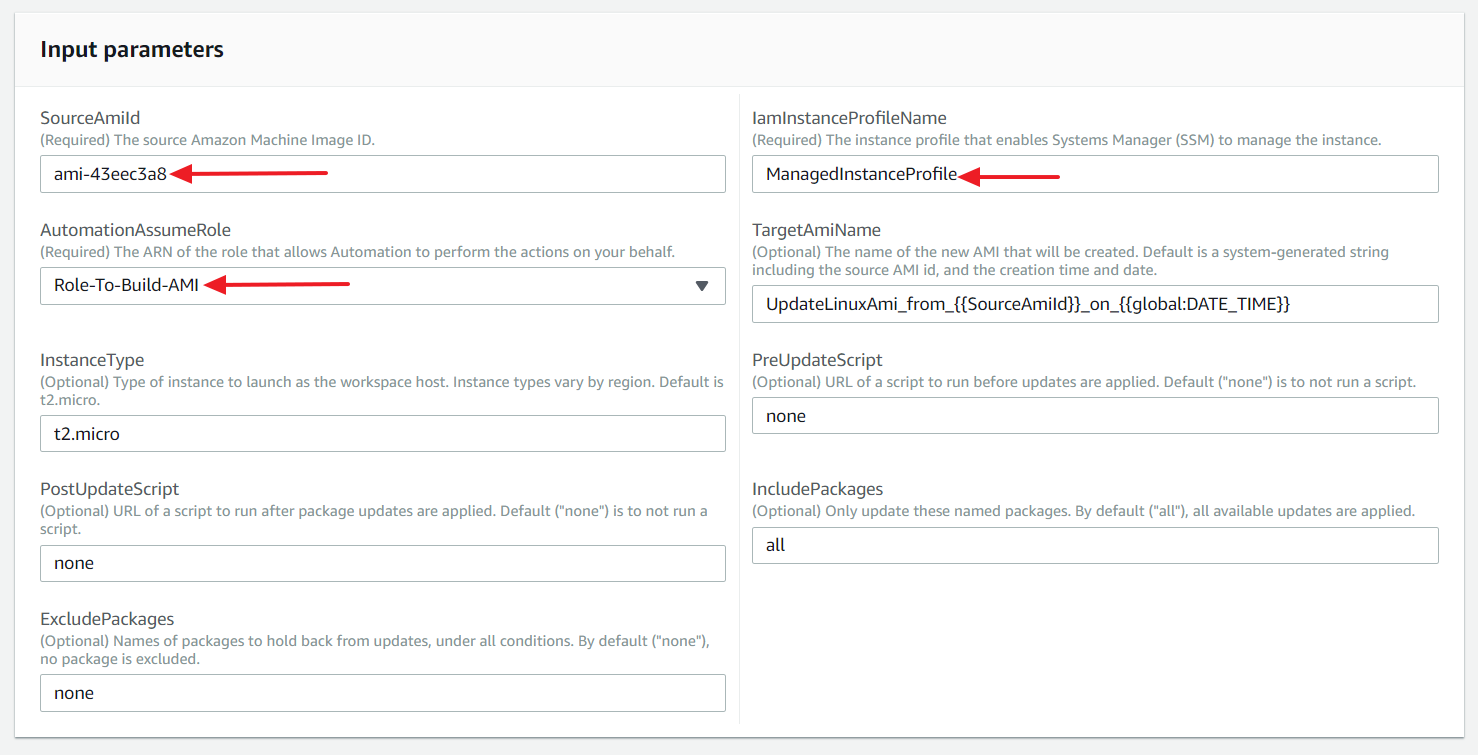
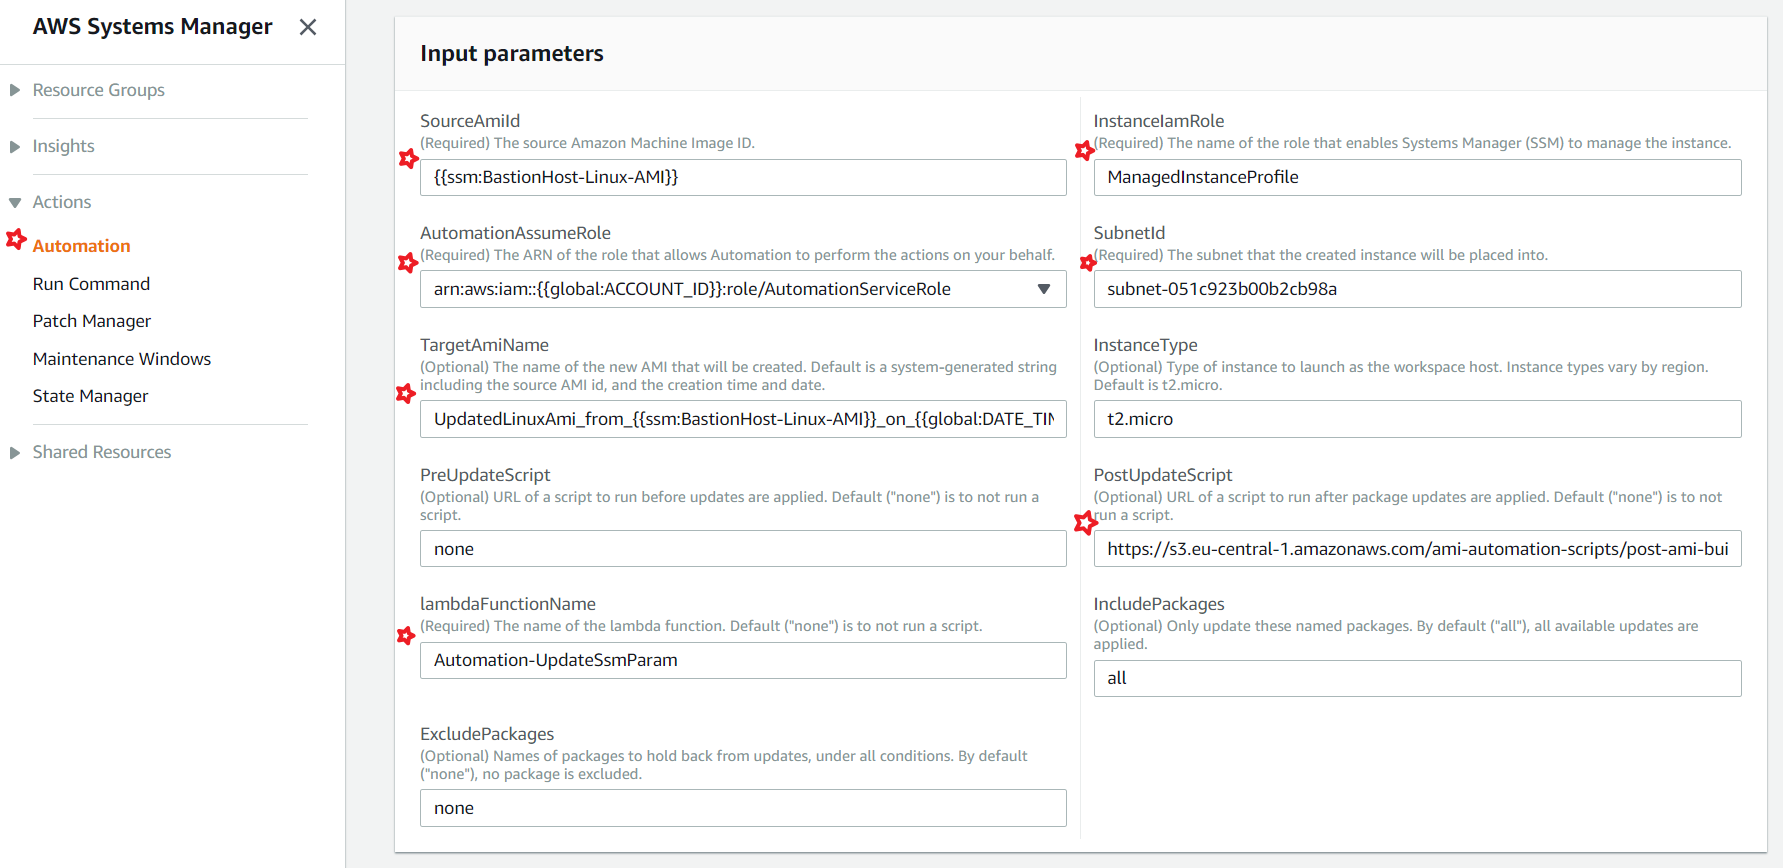
Added images and updated text in README

diff --git a/How-To/setup-ami-lifecycle-management-using-ssm/build-scripts/Automation-UpdateSsmParam.py b/How-To/setup-ami-lifecycle-management-using-ssm/build-scripts/Automation-UpdateSsmParam.py
@@ -1,0 +1,54 @@
+from __future__ import print_function
+
+import json
+import boto3
+
+print('Loading function')
+
+
+#Updates an SSM parameter
+#Expects parameterName, parameterValue
+def lambda_handler(event, context):
+    print("Received event: " + json.dumps(event, indent=2))
+
+    # get SSM client
+    client = boto3.client('ssm')
+
+    #confirm  parameter exists before updating it
+    response = client.describe_parameters(
+       Filters=[
+          {
+           'Key': 'Name',
+           'Values': [ event['parameterName'] ]
+          },
+        ]
+    )
+
+    if not response['Parameters']:
+        print('No such parameter')
+        return 'SSM parameter not found.'
+
+    #if parameter has a Descrition field, update it PLUS the Value
+    if 'Description' in response['Parameters'][0]:
+        description = response['Parameters'][0]['Description']
+        
+        response = client.put_parameter(
+          Name=event['parameterName'],
+          Value=event['parameterValue'],
+          Description=description,
+          Type='String',
+          Overwrite=True
+        )
+    
+    #otherwise just update Value
+    else:
+        response = client.put_parameter(
+          Name=event['parameterName'],
+          Value=event['parameterValue'],
+          Type='String',
+          Overwrite=True
+        )
+        
+    reponseString = 'Updated parameter %s with value %s.' % (event['parameterName'], event['parameterValue'])
+        
+    return reponseString

diff --git a/How-To/setup-ami-lifecycle-management-using-ssm/README.MD b/How-To/setup-ami-lifecycle-management-using-ssm/README.MD
@@ -21,9 +21,7 @@ We will need two roles to automate the AMI LifeCycle Management.
         ]
     }
     ```
-
-## Trust Relationships
-Make the below trust relationship to both the roles
+1. **Trust Relationships**: Make the below trust relationship to both the roles
 
 ```
 {
@@ -42,79 +40,39 @@ Make the below trust relationship to both the roles
   ]
 }
 ```
-If this is all too much for you, you can use this [cloudformation template to create the same](https://console.aws.amazon.com/cloudformation/home?region=us-east-1#/stacks/new?stackName=Systems-Manager-AMI-Automation-Setup&templateURL=https://s3.amazonaws.com/aws-ssm-downloads-us-east-1/templates/automationsetup.yaml)
+If this role creation and attaching trust policies, that part alone can be done using this [cloudformation template](https://console.aws.amazon.com/cloudformation/home?region=us-east-1#/stacks/new?stackName=Systems-Manager-AMI-Automation-Setup&templateURL=https://s3.amazonaws.com/aws-ssm-downloads-us-east-1/templates/automationsetup.yaml).
 
+
+### Create Parameter for Golden AMI
+Use the AWS CLI or GUI to create a parameter store entry, here is the CLI command. `BastionHost-Linux-AMI` is the parameter name that we will use in our _Automation_ Document and lambda will use the same to update the AMI Upon completion of the AMI.
+```sh
+aws ssm put-parameter --name BastionHost-Linux-AMI --value "ami-9a91b371" --type String
+```
 
 ### Create [Lambda](https://docs.aws.amazon.com/systems-manager/latest/userguide/automation-simpatch.html#automation-pet1) to update SSM Parameter Store
+This function will helps us to automatically update the parameter store with the latest AMI when the _Automation Document_ successfully create a new image.
+
+
 
 **Customizations:**
 _Modify as required for your environment_
-1. SSM Parameter Name for `Golden AMI` - Default is `BastionHost-Linux-AMI` 
-1. Lambda Function Name: Default is `Automation-UpdateSsmParam`
+
+1. Lambda Function Name: Choose it as `Automation-UpdateSsmParam`. If you change here, update the _Automation Document_ also with the same name.
+   - Runtime should be `Python 2.7`
+1. Choose the `lambda-ssm-role` you created earlier.
+1. The `code` for lambda function is provided in this file `Automation-UpdateSsmParam.py`
 
 
-```py
-from __future__ import print_function
+### Create custom Automation Document
 
-import json
-import boto3
+1. [Create Document](https://eu-central-1.console.aws.amazon.com/systems-manager/documents/create-document?region=eu-central-1), Give a **Name**, like "`BastionHost-Linux-AMI-Builder`.
+1. Add the contents of the `BastionHost-Linux-AMI-Builder.json` file in the field.
 
-print('Loading function')
-
-
-#Updates an SSM parameter
-#Expects parameterName, parameterValue
-def lambda_handler(event, context):
-    print("Received event: " + json.dumps(event, indent=2))
-
-    # get SSM client
-    client = boto3.client('ssm')
-
-    #confirm  parameter exists before updating it
-    response = client.describe_parameters(
-       Filters=[
-          {
-           'Key': 'Name',
-           'Values': [ event['parameterName'] ]
-          },
-        ]
-    )
-
-    if not response['Parameters']:
-        print('No such parameter')
-        return 'SSM parameter not found.'
-
-    #if parameter has a Descrition field, update it PLUS the Value
-    if 'Description' in response['Parameters'][0]:
-        description = response['Parameters'][0]['Description']
-        
-        response = client.put_parameter(
-          Name=event['parameterName'],
-          Value=event['parameterValue'],
-          Description=description,
-          Type='String',
-          Overwrite=True
-        )
-    
-    #otherwise just update Value
-    else:
-        response = client.put_parameter(
-          Name=event['parameterName'],
-          Value=event['parameterValue'],
-          Type='String',
-          Overwrite=True
-        )
-        
-    reponseString = 'Updated parameter %s with value %s.' % (event['parameterName'], event['parameterValue'])
-        
-    return reponseString
-    ```
-
-
+**_Note:_** By default SSM Automation runs in the default VPC, If you are going to run in a different VPC, you **must** provide the subnet id, which has internet access.
 
 ### Creation of AMI
 1. In the EC2 console, choose **Systems Manager Services,** **Automations**.![](https://media.amazonwebservices.com/blog/2017/EC2Sys-Console-1.png)
-1. Choose **Execution automation** and scroll down to update details.
+1. Choose **Execution automation** and pick the one we just created. Easiest way is to search by "_Owned by Me"_.
 1. Expand **Document Details** and choose **Latest version at runtime**.![](https://raw.githubusercontent.com/miztiik/AWS-Demos/master/How-To/setup-ami-lifecycle-management-using-ssm/images/AWS-UpdateLinux-Ami.png)
 1. Choose the latest document version.
 1. For **Input Parameters**
@@ -124,14 +82,12 @@ def lambda_handler(event, context):
 1.  Choose **Execute Automation**.
 1.  Monitor progress in the **Automation Steps** tab, and view step-level outputs.
 
-**Note:** - By default SSM Automation runs either the `AWS-UpdateLinuxAmi` document or the `AWS-UpdateWindowsAmi` in the default VPC. If you want it to run in a different VPC, then you should provide the subnets in the document, as shown in the [example here](https://docs.aws.amazon.com/systems-manager/latest/userguide/automation-troubleshooting.html)
+**Note:** - By default SSM Automation runs either the `AWS-UpdateLinuxAmi` document or the `AWS-UpdateWindowsAmi` in the default VPC.
 
 
 ### Pre-Update Script
 Any packages/libraries/scripts that needs to be copied to the server before the update process begins.
 
 ### Post-Update Script
-1. **AMI Validation Scripts:** If you have any testing to be done on the newly created AMI, this is the place, where you will have to do it. 
-1. **Update Parameter Store:** After successful completion of test, update the AMI value into the parameter store using Lambda functions
-
+Optional: I have written a crude `post-ami-build.sh` script to install httpd and update the _index.html_ to test everything is working fine. Store the file in S3 and ensure the user who run SSM has access to the s3 bucket.
 
